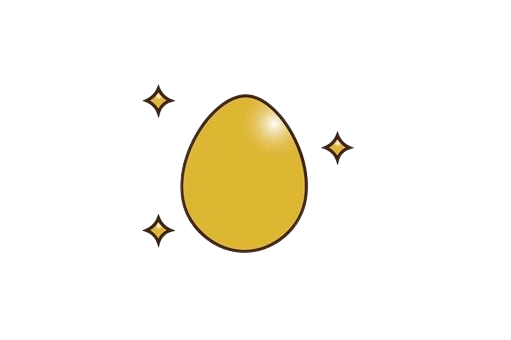
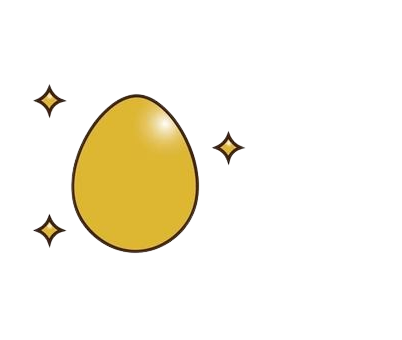
feat: 담비 넣기

Changed region(s): [[0.1791, 0.2353, 0.6866, 0.7647], [0.0896, 0.6176, 0.1791, 0.7353], [0.0896, 0.2353, 0.1791, 0.3529]]

diff --git a/frontend/src/components/Game/AIsection.tsx b/frontend/src/components/Game/AIsection.tsx
@@ -1,5 +1,5 @@
 import React, { useState } from 'react';
-import badguy from '../../assets/Game/badguy.jpg';
+import dambi from '../../assets/Game/dambi.png';
 import egg from '../../assets/Game/egg.png';
 import { PassConfirmModal, CorrectAnswerModal } from './GameModals';
 
@@ -78,14 +78,14 @@ const AISection: React.FC<AISectionProps> = ({
         {/* 첫 번째 이미지 컨테이너 */}
         <div className="flex-grow flex flex-col items-center justify-center bg-yellow-200 rounded-lg overflow-hidden m-2">
           <img 
-            src={badguy} 
-            alt="badguy" 
+            src={dambi} 
+            alt="dambi" 
             className="w-100% h-100% object-cover" 
           />
         </div>
         
         {/* 두 번째 이미지 컨테이너 */}
-        <div className="flex-grow flex flex-col items-center justify-center bg-yellow-200 rounded-lg overflow-hidden mb-2 relative mx-2 mr-4">
+        <div className="flex-grow flex flex-col items-center justify-center bg-yellow-200 rounded-lg overflow-hidden mb-2 relative mx-2">
           <div className="w-60% h-80% flex items-center justify-center">
             <img 
               src={egg} 
@@ -93,7 +93,7 @@ const AISection: React.FC<AISectionProps> = ({
               className="object-contain w-[200px] h-full" 
             />
           </div>
-          <div className="absolute top-1/2 right-4 transform -translate-y-1/2 bg-yellow-200 text-black py-2 rounded-full text-lg font-bold mr-4">
+          <div className="absolute top-1/2 right-4 transform -translate-y-1/2 text-4xl bg-yellow-200 text-black py-2 rounded-full font-bold">
             X{eggCount}
           </div>
         </div>

diff --git a/frontend/src/components/Game/CanvasSection.tsx b/frontend/src/components/Game/CanvasSection.tsx
@@ -436,7 +436,7 @@ const CanvasSection: React.FC<CanvasSectionProps> = ({
           
           {/* 이미 그림을 그렸음을 알리는 오버레이 */}
           {hasCurrentPlayerDrawn && (
-            <div className="absolute top-2 left-1/2 transform -translate-x-1/2 bg-yellow-500 text-white px-4 py-1 rounded-full text-sm font-medium">
+            <div className="absolute top-2 left-1/2 transform -translate-x-1/2 bg-yellow-700 text-white px-4 py-1 rounded-full text-sm font-medium">
               이미 그림을 그렸습니다 (1회만 가능)
             </div>
           )}
